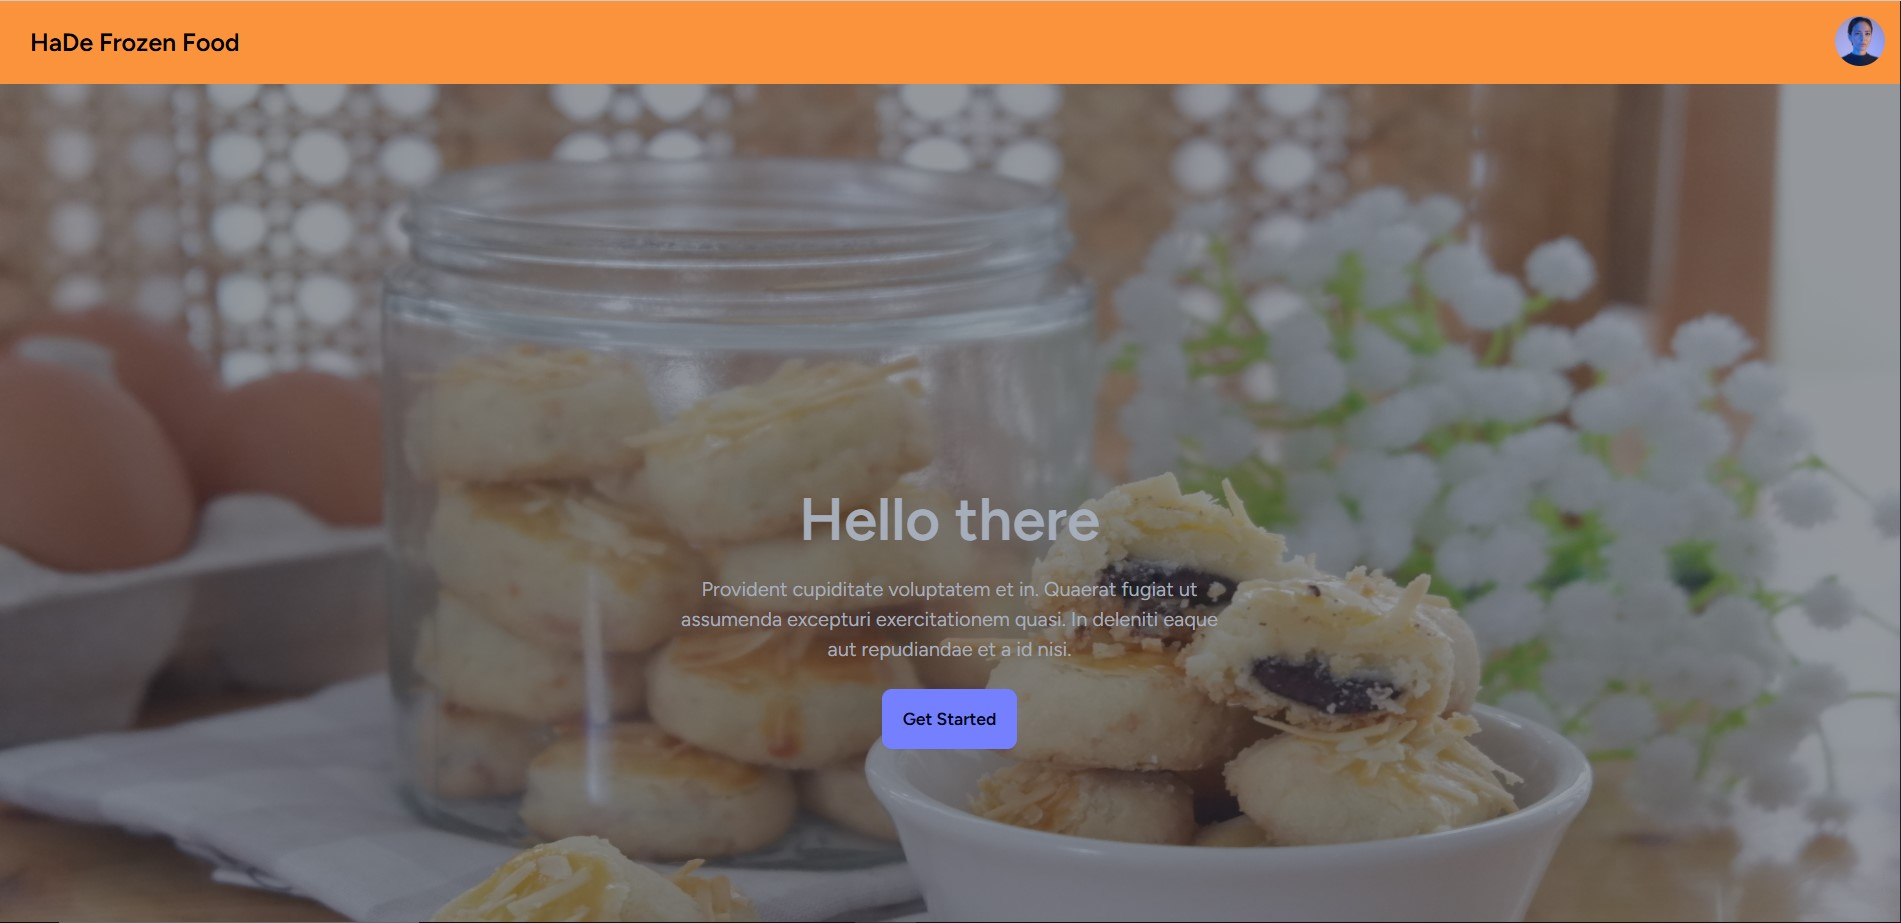
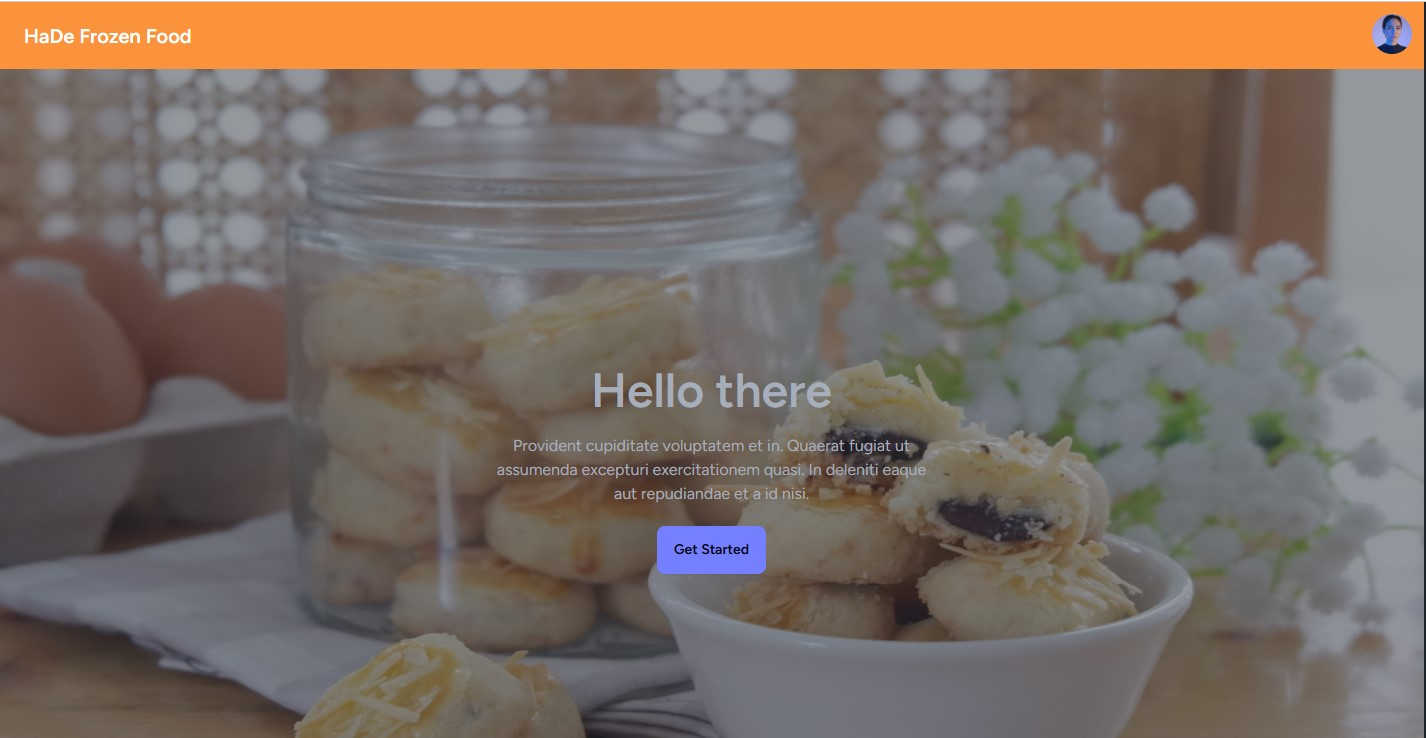
update commit ke 4

diff --git a/index.html b/index.html
@@ -121,23 +121,61 @@
         <div class="grid-container-project">
           <div class="col fade-in">
             <h3>Project Coding</h3>
-            <p class="project-description">Aplikasi manajemen tugas berbasis web dengan fitur kolaborasi real-time menggunakan React dan Firebase.</p>
-            <img src="./assets/Project.jpg" alt="Coding Project" class="project-photo" />
+            <p class="project-description">Aplikasi e-commerce berbasis web dengan framework Laravel menggunakan React dan PHP serta metode CRUD.</p>
+            <img src="/assets/Project.jpg" alt="Coding Project" class="project-photo" />
+            <img src="/assets/dashboardweb.jpg" alt="Coding Project" class="project-photo" />
+            <img src="/assets/database1.jpg" alt="Coding Project" class="project-photo" />
           </div>
 
           <div class="col fade-in">
             <h3>Project Video</h3>
-            <p class="project-description">Video promosi dan edukasi menggunakan Adobe Premiere Pro & After Effects.</p>
-            <img src="./assets/film1.jpg" alt="Video Project" class="project-photo" />
+            <p class="project-description">Making a short movie title "Patriotism" with Adobe Premiere Pro</p>
+            <img src="/assets/film1.jpg" alt="Video Project" class="project-photo" />
+            <p class="project-description">Editing for youtube video gaming with Capcut</p>
+            <img src="/assets/film1.jpg" alt="Video Project" class="project-photo" />
           </div>
 
           <div class="col fade-in">
             <h3>UI/UX Design</h3>
             <p class="project-description">Desain antarmuka modern untuk mobile & web apps menggunakan Figma dan Adobe XD.</p>
-            <img src="./assets/figma1.jpg" alt="UI/UX Project" class="project-photo" />
+            <img src="/assets/figma1.jpg" alt="UI/UX Project" class="project-photo" />
             <p class="project-description">Desain antarmuka modern untuk mobile & web apps menggunakan Figma dan Adobe XD.</p>
-            <img src="./assets/website1.jpg" alt="UI/UX Project" class="project-photo" />
+            <img src="/assets/website1.jpg" alt="UI/UX Project" class="project-photo" />
           </div>
+        </div>
+      </div>
+    </section>
+
+    <!-- SECTION SKILLS -->
+    <section id="skills" class="section">
+      <div class="container">
+        <h2 class="fade-in">My Skill</h2>
+        <div class="skills-box fade-in">
+          <div class="skill-row">
+            <p class="skill-title">Frontend Development</p>
+            <div class="skill-images">
+              <img src="./assets/html.png" alt="Frontend Skill" class="skill-image" />
+              <img src="./assets/vscode.png" alt="Frontend Skill" class="skill-image" />
+              <img src="./assets/laravel.png" alt="Frontend Skill" class="skill-image" />
+              <img src="./assets/react.png" alt="Frontend Skill" class="skill-image" />
+            </div>
+          </div>
+          <div class="skill-row">
+            <p class="skill-title">UI/UX Design</p>
+            <img src="./assets/Figma-logo-design-tool-prototyping-transparent-PNG-image.png" alt="UI/UX Skill" class="skill-image" />
+          </div>
+          <div class="skill-row">
+            <p class="skill-title">Video Editing</p>
+            <img src="./assets/premiere.png" alt="Video Editing Skill" class="skill-image" />
+            <img src="./assets/capcut.png" alt="Video Editing Skill" class="skill-image" />
+          </div>
+          <!-- Tambahkan baris skill di bawah ini jika ingin menambahkan -->
+          <!-- 
+      <div class="skill-row">
+        <p class="skill-title">Skill Baru</p>
+        <img src="./assets/namagambar.png" alt="Skill Baru" class="skill-image" />
+      </div>
+      -->
         </div>
       </div>
     </section>

diff --git a/styles.css b/styles.css
@@ -592,3 +592,112 @@ html {
     grid-template-columns: 1fr; /* Stack items on smaller screens */
   }
 }
+
+.grid-container-project {
+  display: grid;
+  grid-template-columns: repeat(3, 1fr); /* default 3 kolom */
+  gap: 20px;
+  width: 100%;
+}
+
+/* Tablet: ubah jadi 2 kolom */
+@media (max-width: 1024px) {
+  .grid-container-project {
+    grid-template-columns: repeat(1, 1fr);
+  }
+}
+
+/* HP: ubah jadi 1 kolom */
+@media (max-width: 768px) {
+  .grid-container-project {
+    grid-template-columns: 1fr;
+  }
+
+  .grid-container-project .col {
+    margin-bottom: 30px;
+  }
+
+  .project-photo {
+    max-width: 100%;
+    height: auto;
+  }
+}
+
+/* SECTION SKILLS */
+#skills {
+  background: #fffdf8;
+  padding: 60px 20px;
+}
+
+.skills-box {
+  background-color: #ffffff;
+  padding: 30px;
+  border-radius: 15px;
+  box-shadow: 0 6px 12px rgba(0, 0, 0, 0.1);
+  max-width: 1280px;
+  margin: 0 auto;
+  display: flex;
+  flex-direction: column;
+  gap: 30px;
+  -webkit-border-radius: 15px;
+  -moz-border-radius: 15px;
+  -ms-border-radius: 15px;
+  -o-border-radius: 15px;
+}
+
+.skill-row {
+  text-align: center;
+}
+
+.skill-title {
+  font-size: 1.2rem;
+  font-weight: bold;
+  font-family: cursive;
+  margin-bottom: 10px;
+}
+
+.skill-images {
+  display: flex;
+  justify-content: center;
+  gap: 30px;
+  flex-wrap: wrap; /* agar responsif saat layar sempit */
+  margin-top: 10px;
+}
+
+.skill-image {
+  max-width: 120px;
+  width: 100%;
+  height: auto;
+  border-radius: 10px;
+  box-shadow: 0 4px 8px rgba(0, 0, 0, 0.1);
+  object-fit: contain; /* biar tidak gepeng */
+}
+
+/* Responsive Skill Box */
+@media (max-width: 768px) {
+  .skills-box {
+    padding: 20px;
+  }
+
+  .skill-title {
+    font-size: 1rem;
+  }
+
+  .skill-image {
+    max-width: 100px;
+  }
+
+  .skill-images {
+    gap: 20px;
+  }
+}
+
+@media (max-width: 480px) {
+  .skill-image {
+    max-width: 80px;
+  }
+
+  .skill-images {
+    gap: 15px;
+  }
+}
